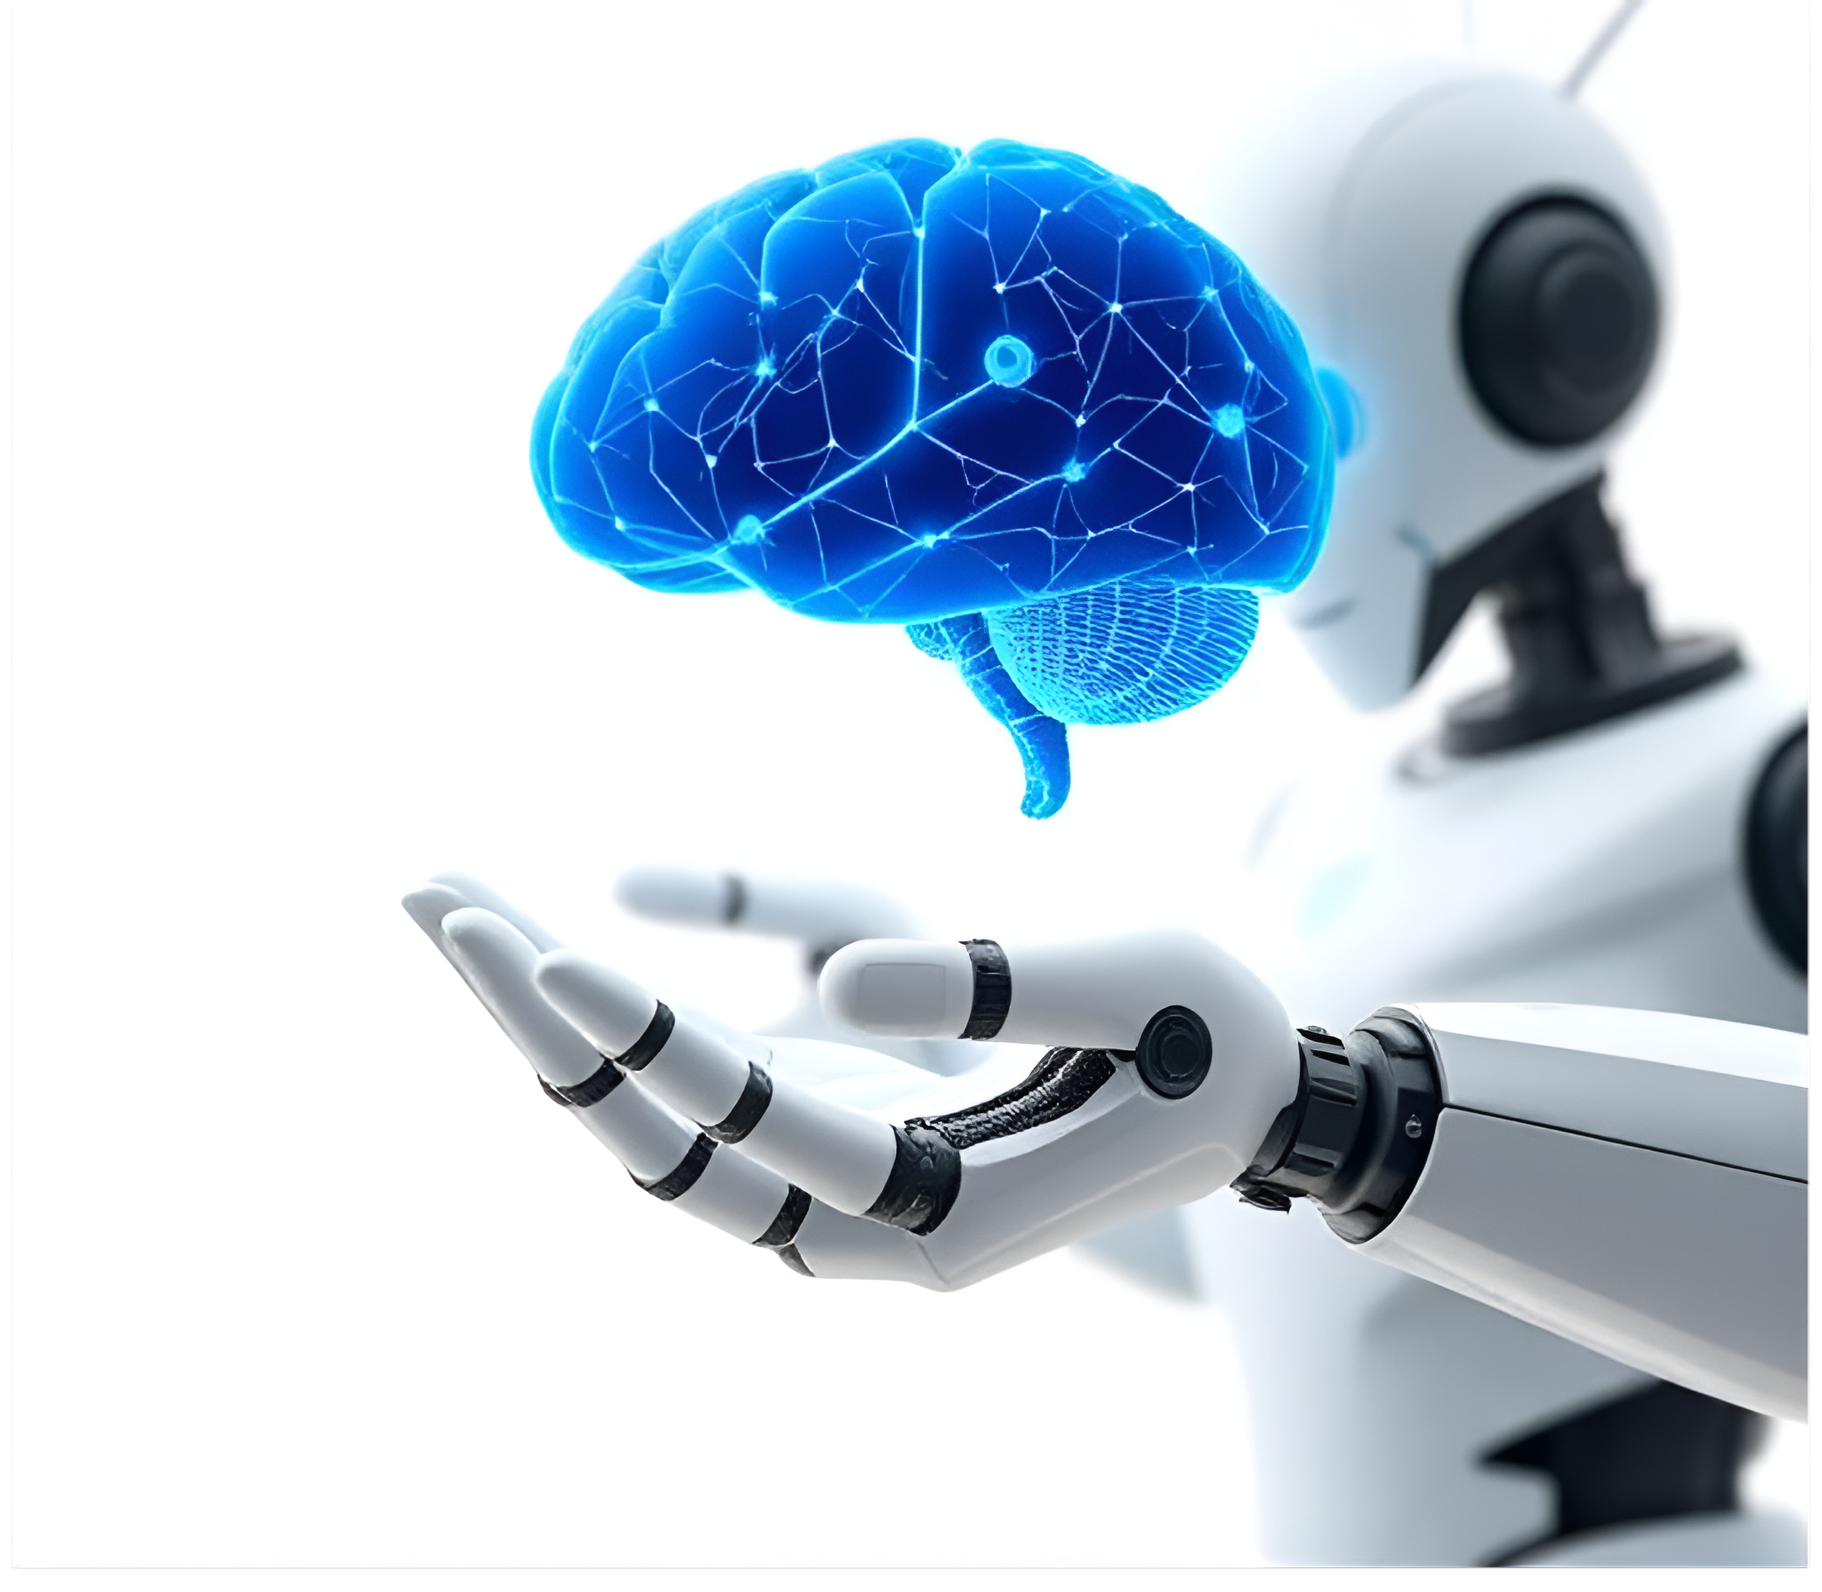
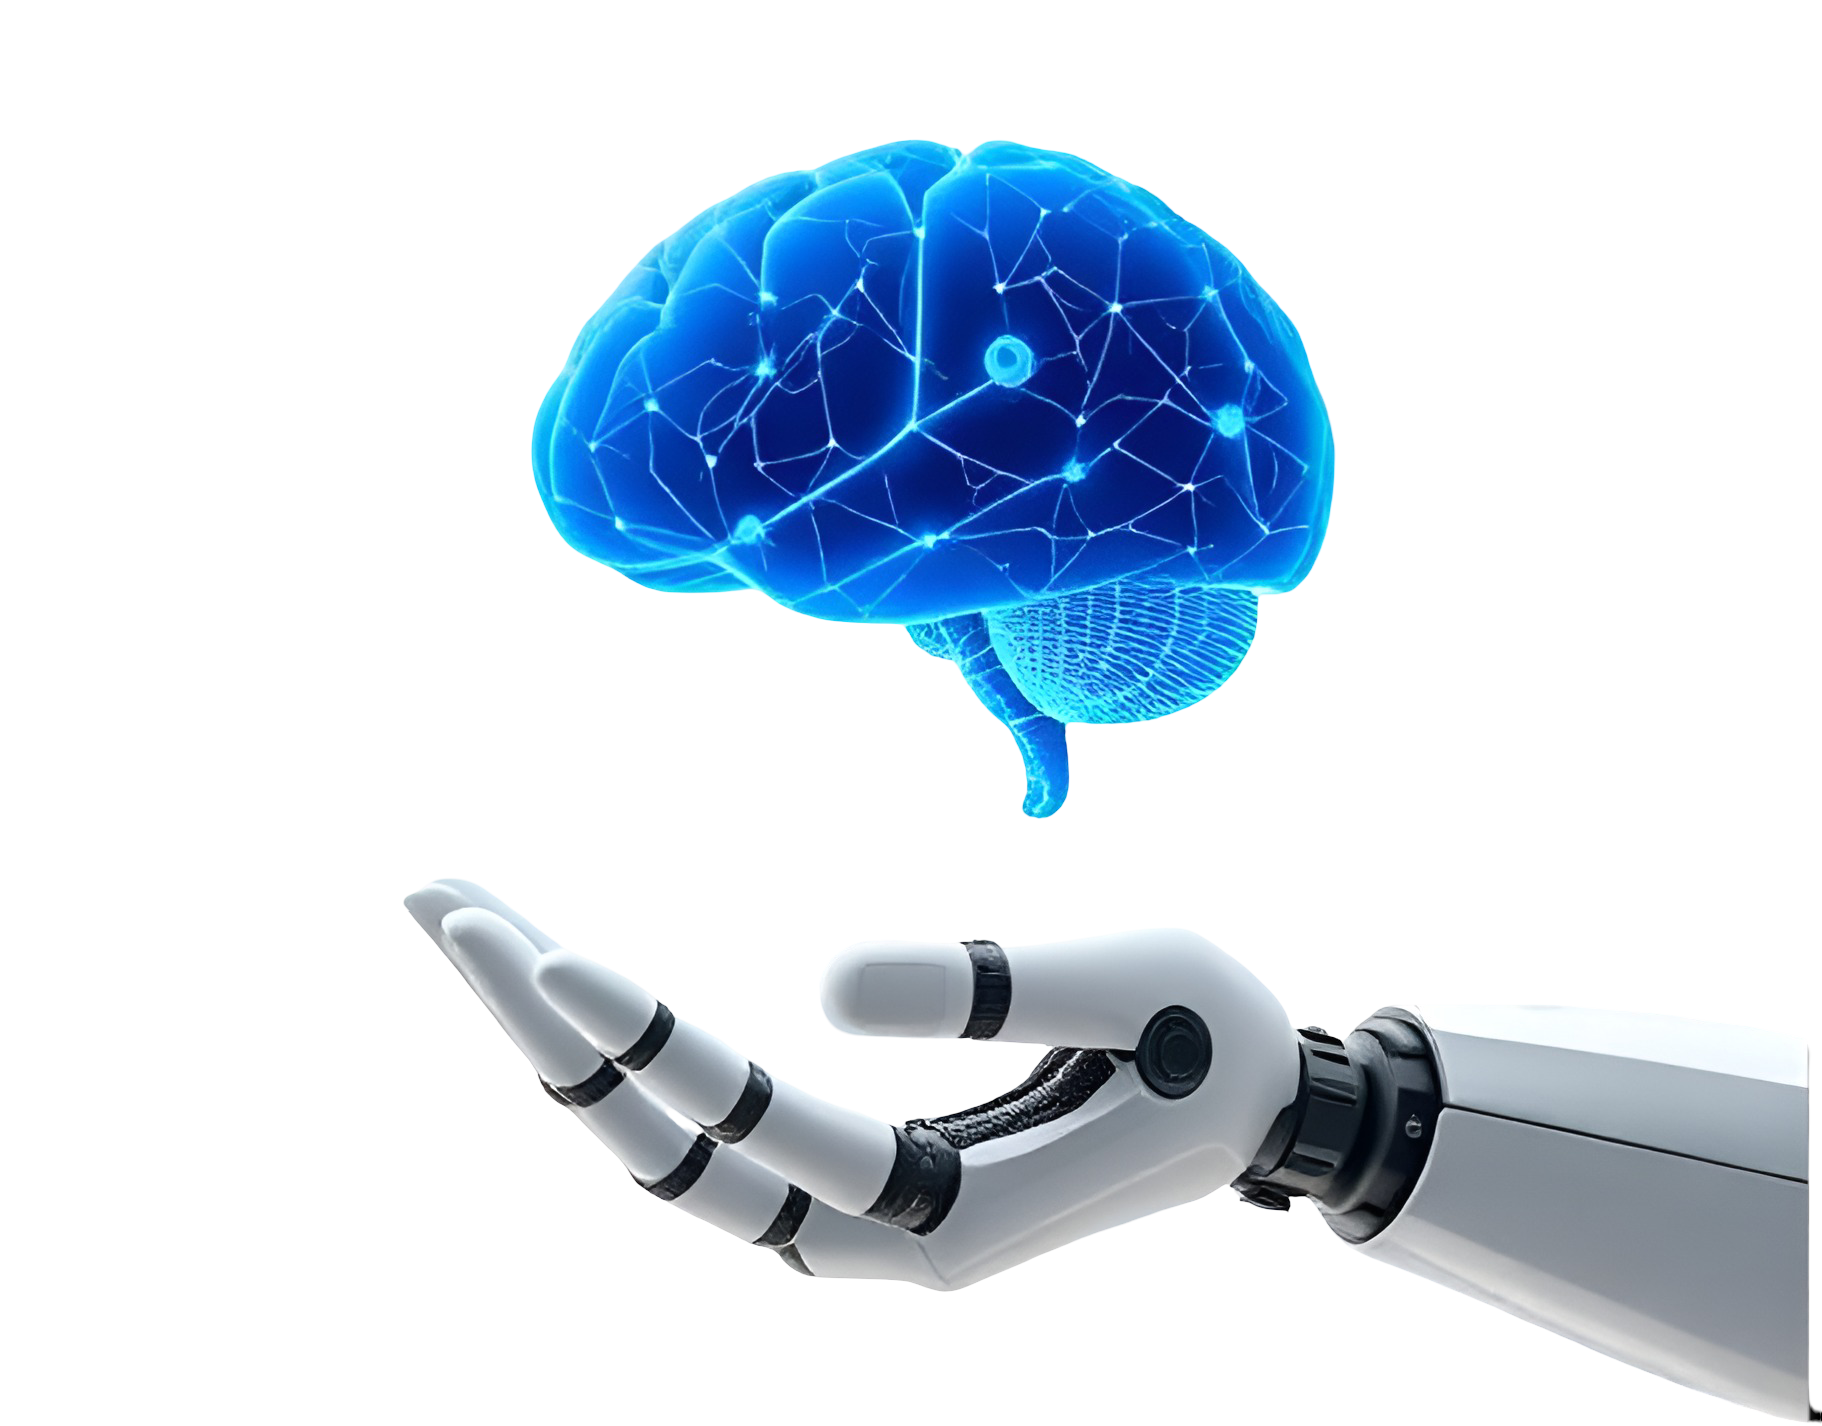
go

diff --git a/src/index.css b/src/index.css
@@ -1392,7 +1392,7 @@ background-size: cover;
 }
 .bg-lab{
   background-image: url(assets/doct.jpg);
-  background-size: cover;
+  background-size: contain;
   background-repeat: no-repeat;
   background-position: center;
 }
@@ -1480,9 +1480,10 @@ background-size: cover;
 }
 .bg-cyb{
   background-image: url(assets/robot.png);
-  background-size: cover;
-  background-position: 80%;
+  background-size: contain;
+  background-position: center;
   background-repeat: no-repeat;
+
 }
 .bg-awd{
   background-image: url(assets/ball.jpg);

diff --git a/src/faq/Awards.jsx b/src/faq/Awards.jsx
@@ -20,10 +20,10 @@ const Awards = () => {
 
 
      {/* <div className='mb-10 w-full mx-auto max-w-5xl '></div> */}
-<div className="grid grid-cols-1 md:grid-cols-2 mb-20">
-  <div className="bg-lab h-[240px] md:h-[360px]"></div>
+<div className="grid grid-cols-2 bg-blue md:grid-cols-2 mb-20">
+  <div className="bg-lab h-[258px] md:h-[360px]"></div>
 
-  <div className="bg-cyb h-[300px]  mt-2 bg-gray-50 md:h-[360px]  md:mb-0"></div>
+  <div className="bg-cyb h-[250px] mt-2 ml-2 bg-white  md:h-[360px]  md:mb-0"></div>
 </div>
 
  
